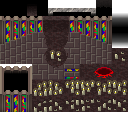
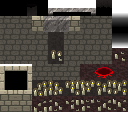
1.0: changed last level visuals to better fit new vision

Changed region(s): [[0.0, 0.0938, 0.875, 0.875]]

diff --git a/core/src/main/java/com/shatteredpixel/shatteredpixeldungeon/levels/LastLevel.java b/core/src/main/java/com/shatteredpixel/shatteredpixeldungeon/levels/LastLevel.java
@@ -63,7 +63,7 @@ public class LastLevel extends Level {
 
 	@Override
 	public String tilesTex() {
-		return Assets.Environment.WATER_CAVES;
+		return Assets.Environment.TILES_CAVES;
 	}
 
 	@Override
@@ -337,12 +337,12 @@ public class LastLevel extends Level {
 		}
 
 		private static final int[] map = new int[]{
-				-1, -1, -1, -1, -1, -1, -1, -1, 19, -1, -1, -1, -1, -1, -1, -1,
-				 0,  0,  0,  0,  8,  9, 10, 11, 19, 11, 12, 13, 14,  0,  0,  0,
-				 0,  0,  0,  0, 16, 17, 18, 31, 19, 31, 20, 21, 22,  0,  0,  0,
-				 0,  0,  0,  0, 24, 25, 26, 19, 19, 19, 28, 29, 30,  0,  0,  0,
-				 0,  0,  0,  0, 24, 25, 26, 19, 19, 19, 28, 29, 30,  0,  0,  0,
-				 0,  0,  0,  0, 24, 25, 26, 19, 19, 19, 28, 29, 30,  0,  0,  0,
+				-1, -1, -1, -1, -1, -1, -1, -1, 18, -1, -1, -1, -1, -1, -1, -1,
+				 0,  0,  0,  0,  8,  9, 10, 11, 18, 11, 12, 13, 14,  0,  0,  0,
+				 0,  0,  0,  0, 16, 17, 18, 18, 18, 18, 20, 21, 22,  0,  0,  0,
+				 0,  0,  0,  0, 24, 25, 26, 18, 18, 18, 28, 29, 30,  0,  0,  0,
+				 0,  0,  0,  0, 24, 25, 26, 18, 18, 18, 28, 29, 30,  0,  0,  0,
+				 0,  0,  0,  0, 24, 25, 26, 18, 18, 18, 28, 29, 30,  0,  0,  0,
 				 0,  0,  0,  0, 24, 25, 34, 35, 35, 35, 34, 29, 30,  0,  0,  0,
 				 0,  0,  0,  0, 40, 41, 36, 36, 36, 36, 36, 40, 41,  0,  0,  0,
 				 0,  0,  0,  0, 48, 49, 36, 36, 36, 36, 36, 48, 49,  0,  0,  0,
